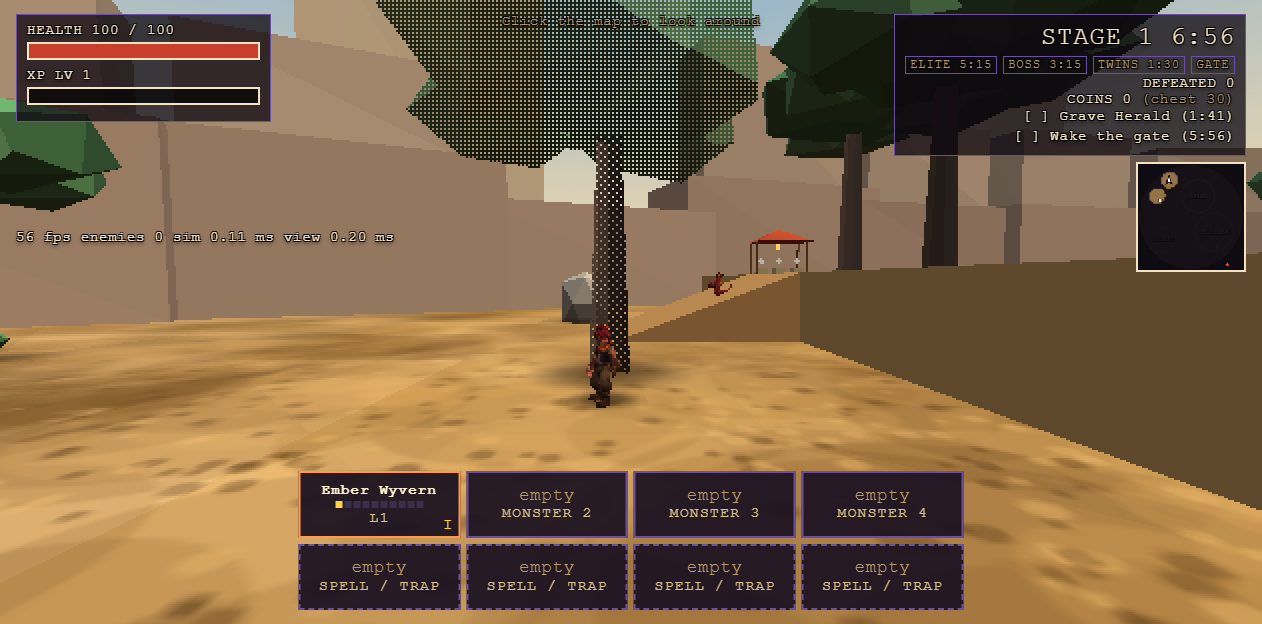
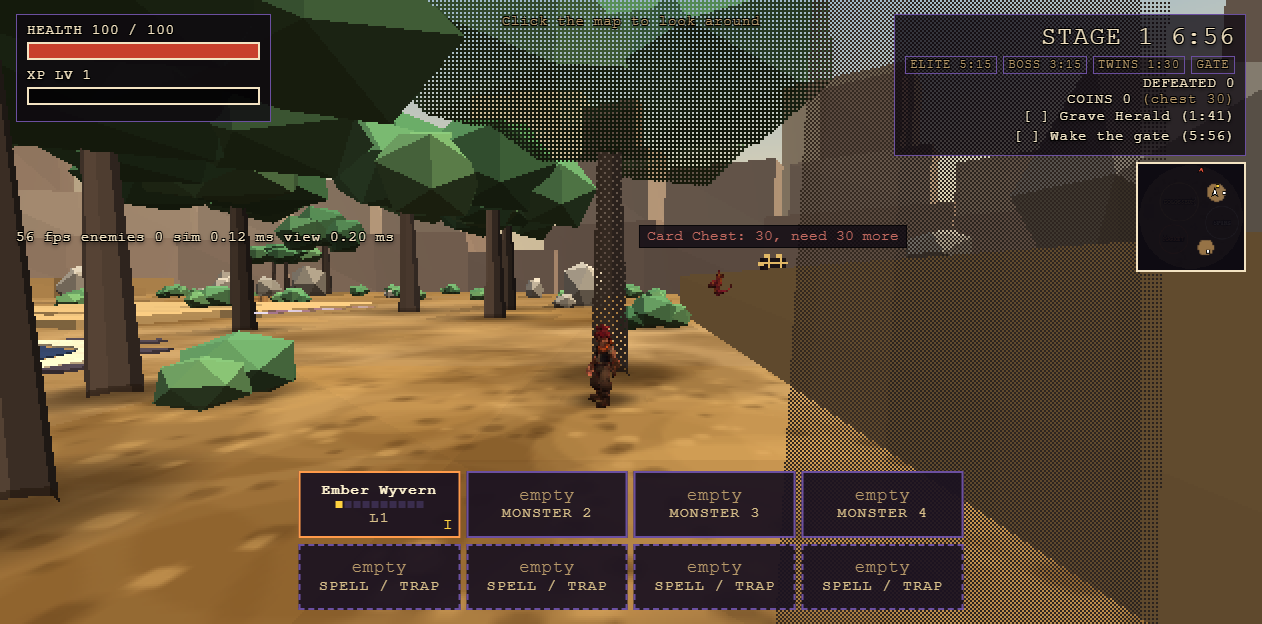
Spectacle step 4: camera passes behind thin blockers, swings up before pulling in, eye height limited to 0.1 m a frame
Trunks and rocks under 2 m only fade and never pull the camera in. Arm angle never goes below the pivot. Pass-behind for thin blockers, swing up to 0.5 rad before pull-in, smoothed rise, pull-in smoothed over 0.06 s, teleport resyncs the limiter, shake clamped to 0.25 m, near plane 0.15. Boss framing unchanged. New tests: browser-camrun, browser-bossframe; pylon test now waits for the camera to settle.

Claude-Session: https://claude.ai/code/session_01G4m5sPDpcSeznt8KShqd9B

diff --git a/duelsummoner/src/view/camera.js b/duelsummoner/src/view/camera.js
@@ -13,43 +13,75 @@ function solidAt(x, y, z) { const r = 0.3; return heightAt(x, z) > y - 0.2 || he
 function hitProp(col, x, y, z) {
   if (!col) return false;
   const i0 = Math.floor((x - 3) / col.CELL), i1 = Math.floor((x + 3) / col.CELL), j0 = Math.floor((z - 3) / col.CELL), j1 = Math.floor((z + 3) / col.CELL);
-  for (let i = i0; i <= i1; i++) for (let j = j0; j <= j1; j++) { const a = col.grid.get(i * 4096 + j); if (!a) continue; for (let n = 0; n < a.length; n++) { const c = a[n], dx = x - c.x, dz = z - c.z, rr = c.r + 0.85; if (dx * dx + dz * dz < rr * rr && y < c.top) return true; } }
+  for (let i = i0; i <= i1; i++) for (let j = j0; j <= j1; j++) { const a = col.grid.get(i * 4096 + j); if (!a) continue; for (let n = 0; n < a.length; n++) { const c = a[n]; if (c.r < 2.0) continue; const dx = x - c.x, dz = z - c.z, rr = c.r + 0.85;       // trunks and rocks under 2 m only fade (see seethrough.js): they never pull the camera in
+       if (dx * dx + dz * dz < rr * rr && y < c.top) return true; } }
   return false;
 }
 
 export class ChaseCamera {
   constructor(camera) { this.camera = camera; this.t = 1; this.py = 0; this.ready = false; this.pos = { x: 0, y: 0, z: 0 }; this.sx = 0; this.sz = 0; this.lag = true; this.zoom = 1; this.zoomTo = 1; this.cols = null; this.fovK = 1; this.spd = 1; this.lx = 0; this.lz = 0; }
-  reset() { this.ready = false; this.t = 1; }
+  reset() { this.ready = false; this.t = 1; this.ready0 = false; }
 
   update(p, yaw, pitch, dt) {
     const fx = -Math.sin(yaw), fz = -Math.cos(yaw), rx = -fz, rz = fx;
     this.zoom += (this.zoomTo - this.zoom) * Math.min(1, dt * 1.6);               // pulls back and up for big bosses so they fit
     const mv = Math.hypot(p.x - this.lx, p.z - this.lz) / Math.max(dt, 1e-3); this.lx = p.x; this.lz = p.z;      // fast play pulls the camera back by up to a quarter so the whole map reads
     this.spd += ((1 + 0.25 * clamp((Math.min(mv, 60) - 9) / 9, 0, 1)) - this.spd) * Math.min(1, dt * 1.5);
-    const a = BASE + clamp(pitch, C.pitchMin, C.pitchMax), back = Math.cos(a) * ARM * this.zoom * this.spd * this.fovK, up = Math.sin(a) * ARM * this.zoom * this.spd * this.fovK;
-    if (!this.ready) { this.py = p.y; this.sx = p.x; this.sz = p.z; this.ready = true; }
+    const a0 = BASE + clamp(pitch, C.pitchMin, C.pitchMax), aFloor = Math.max(a0, 0), lookUp = (aFloor - a0) * 8;      // the arm never goes below the pivot: looking up tilts the look target instead, so the camera cannot sink under a ledge
+    const sc = this.zoom * this.spd * this.fovK;
+    if (!this.ready) { this.py = p.y; this.sx = p.x; this.sz = p.z; this.ready = true; this.swing = 0; this.rise = 0; this.pb = false; this.pbT = 0; }
     // gentle horizontal follow lag (about 55 ms); a jump of more than 3 m is a teleport and snaps
-    if (!this.lag || Math.abs(p.x - this.sx) > 3 || Math.abs(p.z - this.sz) > 3) { this.sx = p.x; this.sz = p.z; }
+    if (!this.lag || Math.abs(p.x - this.sx) > 3 || Math.abs(p.z - this.sz) > 3) { this.sx = p.x; this.sz = p.z; this.ready0 = false; this.rise = 0; this.py = p.y; }       // a teleport resyncs the height limiter too
     else { const k = Math.min(1, dt * 18); this.sx += (p.x - this.sx) * k; this.sz += (p.z - this.sz) * k; }
     this.py += (p.y - this.py) * Math.min(1, dt * 14);           // smooth the vertical follow over steps
     const px = this.sx + rx * C.shoulder, py = this.py + C.headY, pz = this.sz + rz * C.shoulder;
-    const tx = px - fx * back, ty = py + up, tz = pz - fz * back;
-    // march from the pivot toward the wanted position; stop before the first solid sample
-    let free = 1;
-    const steps = 40;
-    for (let i = 1; i <= steps; i++) {
-      const t = i / steps, sx = px + (tx - px) * t, sy = py + (ty - py) * t, sz = pz + (tz - pz) * t;
-      if (solidAt(sx, sy, sz) || hitProp(this.cols, sx, sy, sz)) { free = (i - 1) / steps; break; }
-    }
-    if (free < 1) free = Math.max(C.minDist / ARM, free - C.margin / ARM);   // keep clear of the wall only when one is in the way
-    if (free < this.t) this.t = free;                              // pull in at once
-    else this.t = Math.min(free, this.t + dt * 2.5);               // ease back out over about 0.4 s
-    const t = Math.min(this.t, free);
+    const wanted = ang => { const back = Math.cos(ang) * ARM * sc, up = Math.sin(ang) * ARM * sc; return [px - fx * back, py + up, pz - fz * back, Math.hypot(back, up)]; };
+    // march from the pivot toward a wanted position; report the first solid sample, how many samples are solid and whether the end itself is
+    const march = ang => {
+      const [tx, ty, tz, len] = wanted(ang); let first = -1, solidN = 0, endSolid = false;
+      for (let i = 1; i <= 40; i++) { const t = i / 40, sx = px + (tx - px) * t, sy = py + (ty - py) * t, sz = pz + (tz - pz) * t; if (solidAt(sx, sy, sz) || hitProp(this.cols, sx, sy, sz)) { solidN++; if (first < 0) first = i; if (i === 40) endSolid = true; } }
+      return { free: first < 0 ? 1 : (first - 1) / 40, first, solidN, endSolid, len, tx, ty, tz };
+    };
+    const rayClear = (ex, ey, ez, qx, qy, qz) => { for (let i = 1; i < 10; i++) { const t = i / 10; if (solidAt(ex + (qx - ex) * t, ey + (qy - ey) * t, ez + (qz - ez) * t)) return false; } return true; };
+    let ang = aFloor + this.swing, m = march(ang), free = m.free;
+    if (m.first >= 0) {
+      // pass behind a thin blocker: the wanted position is free and the blocked span is 8 m or less (10 m once inside it): the camera stays at full distance and the porthole opens the blocker.
+      // It needs a view: at least 3 of 4 rays from the camera to points 4 m round the duelist (left, right, ahead, behind) must be clear. The choice is held for 0.5 s.
+      this.pbT -= dt;
+      if (this.pbT <= 0) {
+        const span = m.solidN / 40 * m.len; let pb = false;
+        if (!m.endSolid && span <= (this.pb ? 10 : 8)) { let clear = 0; for (const [dx, dz] of [[rx, rz], [-rx, -rz], [fx, fz], [-fx, -fz]]) if (rayClear(m.tx, m.ty, m.tz, px + dx * 4, py - 0.4, pz + dz * 4)) clear++; pb = clear >= 3; }
+        this.pb = pb; this.pbT = 0.5;
+      }
+      if (this.pb && !m.endSolid) free = 1;
+    } else { this.pb = false; this.pbT = Math.min(this.pbT, 0); }
+    // otherwise pull in, but swing the arm up first (up to 0.5 rad, at most 1 rad a second, eased) so the camera looks over the blocker before it closes in under 4 m
+    let swingTo = 0;
+    if (free < 1) {
+      swingTo = 0.5; for (let sw = 0; sw <= 0.5001; sw += 0.1) { const mm = march(aFloor + sw); if (mm.first < 0 || (mm.free * mm.len) >= 4.0) { swingTo = sw; break; } }
+      const dsw = swingTo - this.swing; this.swing += Math.sign(dsw) * Math.min(Math.abs(dsw), dt * (dsw > 0 ? 1.0 : 0.5)) ; this.swing *= 1;
+      ang = aFloor + this.swing; m = march(ang); free = m.free;
+      if (m.first >= 0 && this.pb && !m.endSolid) free = 1;
+    } else { this.swing = Math.max(0, this.swing - dt * 0.5); }
+    const armLen = m.len; if (free < 1) free = Math.max(C.minDist / armLen, free - C.margin / armLen);   // keep clear of the wall only when one is in the way
+    if (free < this.t) {                                           // pull in: about 0.06 s when the eye is in the clear, at once when it is already inside something
+      const cur = this.t, cx0 = px + (this.lastTx - px) * cur, cy0 = py + (this.lastTy - py) * cur, cz0 = pz + (this.lastTz - pz) * cur;
+      if (this.lastTx === undefined || solidAt(cx0, cy0, cz0) || hitProp(this.cols, cx0, cy0, cz0)) this.t = free; else this.t += (free - this.t) * Math.min(1, dt / 0.06);
+    } else this.t = Math.min(free, this.t + dt * 2.5);               // ease back out over about 0.4 s
+    this.lastTx = m.tx; this.lastTy = m.ty; this.lastTz = m.tz;
+    const t = this.t < free ? this.t : Math.max(free, Math.min(this.t, free + (this.t - free))), tx = m.tx, ty = m.ty, tz = m.tz;
     let x = px + (tx - px) * t, y = py + (ty - py) * t, z = pz + (tz - pz) * t;
-    for (let up = 0; up < 9 && (solidAt(x, y, z) || hitProp(this.cols, x, y, z)); up++) y += 1.0;       // pinned against something tall at the minimum distance: rise over it, looking down at the duelist, rather than sit inside it
-    y = Math.max(y, heightAt(x, z) + C.floorGap, C.floorGap);
+    // pinned against something tall at the minimum distance: rise over it, looking down at the duelist. The rise is smoothed to at most 6 m a second (0.1 m a frame), never a 1 m jump
+    let need = 0; for (; need < 9 && (solidAt(x, y + need, z) || hitProp(this.cols, x, y + need, z)); need += 0.25);
+    if (need > 2) {       // too tall to rise over: sit at the nearest clear spot further back instead (behind the blocker, which the porthole opens)
+      for (let tt = Math.max(t, 0.05) + 0.04; tt <= 1.0001; tt += 0.04) { const qx = px + (tx - px) * tt, qy = py + (ty - py) * tt, qz = pz + (tz - pz) * tt; if (!solidAt(qx, qy, qz) && !hitProp(this.cols, qx, qy, qz)) { x = qx; y = qy; z = qz; need = 0; break; } }
+    }
+    const dr = need - this.rise; this.rise += Math.sign(dr) * Math.min(Math.abs(dr), dt * 6); y += this.rise;
+    if (this.cy === undefined || this.cy !== this.cy || !this.ready0) { this.cy = y; this.ready0 = true; }
+    else { const lim = dt * 6; this.cy += Math.max(-lim, Math.min(lim, y - this.cy)); }       // the eye's height changes by at most 6 m a second (0.1 m a frame), whatever pulled it
+    y = this.cy; const floor = Math.max(heightAt(x, z) + C.floorGap, C.floorGap); if (y < floor) { y = floor; this.cy = y; }       // never under the ground, even if that is faster
     this.camera.position.set(x, y, z);
-    let ly = py + 0.2; this.camera.lookAt(px + fx * 6, ly, pz + fz * 6);        // aim past the duelist so the shoulder offset reads
+    let ly = py + 0.2 + lookUp; this.camera.lookAt(px + fx * 6, ly, pz + fz * 6);        // aim past the duelist so the shoulder offset reads
     // safe area: the duelist's feet stay above the hotbar (the bottom quarter of the screen) however steeply the camera looks down or however close the spring pulls it in
     const dx = this.sx - x, dy = this.py - y, dz = this.sz - z, dist = Math.sqrt(dx * dx + dy * dy + dz * dz) || 1, th = Math.tan(this.camera.fov * Math.PI / 360);
     for (let k = 0; k < 8; k++) {

diff --git a/duelsummoner/src/main.js b/duelsummoner/src/main.js
@@ -55,7 +55,7 @@ const sky = new T.Mesh(new T.SphereGeometry(500, 16, 8), new T.ShaderMaterial({ 
   vertexShader: 'varying float vy; void main() { vy = normalize(position).y; gl_Position = projectionMatrix * modelViewMatrix * vec4(position, 1.0); gl_Position.z = gl_Position.w; }',
   fragmentShader: 'uniform vec3 top; uniform vec3 hor; uniform vec3 low; varying float vy; void main() { vec3 c = vy >= 0.0 ? mix(hor, top, smoothstep(0.0, 0.6, vy)) : mix(hor, low, smoothstep(0.0, -0.3, vy)); gl_FragColor = vec4(c, 1.0); }' }));
 sky.frustumCulled = false; sky.renderOrder = -10; scene.add(sky);       // a sky dome: cooler and darker overhead than at the horizon (one draw, about 250 triangles)
-const camera = new T.PerspectiveCamera(62, 1, 0.5, 600);
+const camera = new T.PerspectiveCamera(62, 1, 0.15, 600);
 let fpsCap = 60, lastRender = 0;                     // a setting (30, 60, 90 or 120); a frame that comes sooner than the cap allows is skipped
 let fovSetting = 100, baseV = 62;                    // the setting is HORIZONTAL degrees, so it means the same on every screen shape; the vertical angle follows from the aspect and never goes past 88
 let fovK = 1;

diff --git a/duelsummoner/src/view/fx.js b/duelsummoner/src/view/fx.js
@@ -192,7 +192,7 @@ export class Fx {
     this.flashA = Math.max(0, this.flashA - dt * 2.2);
     if (this.fxFlash) { const q = Math.round(this.flashA * 50) / 50; if (q !== this.flashShown) { this.flashShown = q; this.fxFlash.style.opacity = q; } }
   }
-  applyShake(camera) { const s = this.shakeOff; if (this.trauma <= 0) return; camera.position.x += s.x; camera.position.y += s.y; camera.position.z += s.z; camera.rotation.z += s.roll; }
+  applyShake(camera) { const s = this.shakeOff; if (this.trauma <= 0) return; const l = Math.hypot(s.x, s.y, s.z), k = l > 0.25 ? 0.25 / l : 1; camera.position.x += s.x * k; camera.position.y += s.y * k; camera.position.z += s.z * k; camera.rotation.z += s.roll; }       // shake never moves the eye more than 0.25 m
 }
 
 
